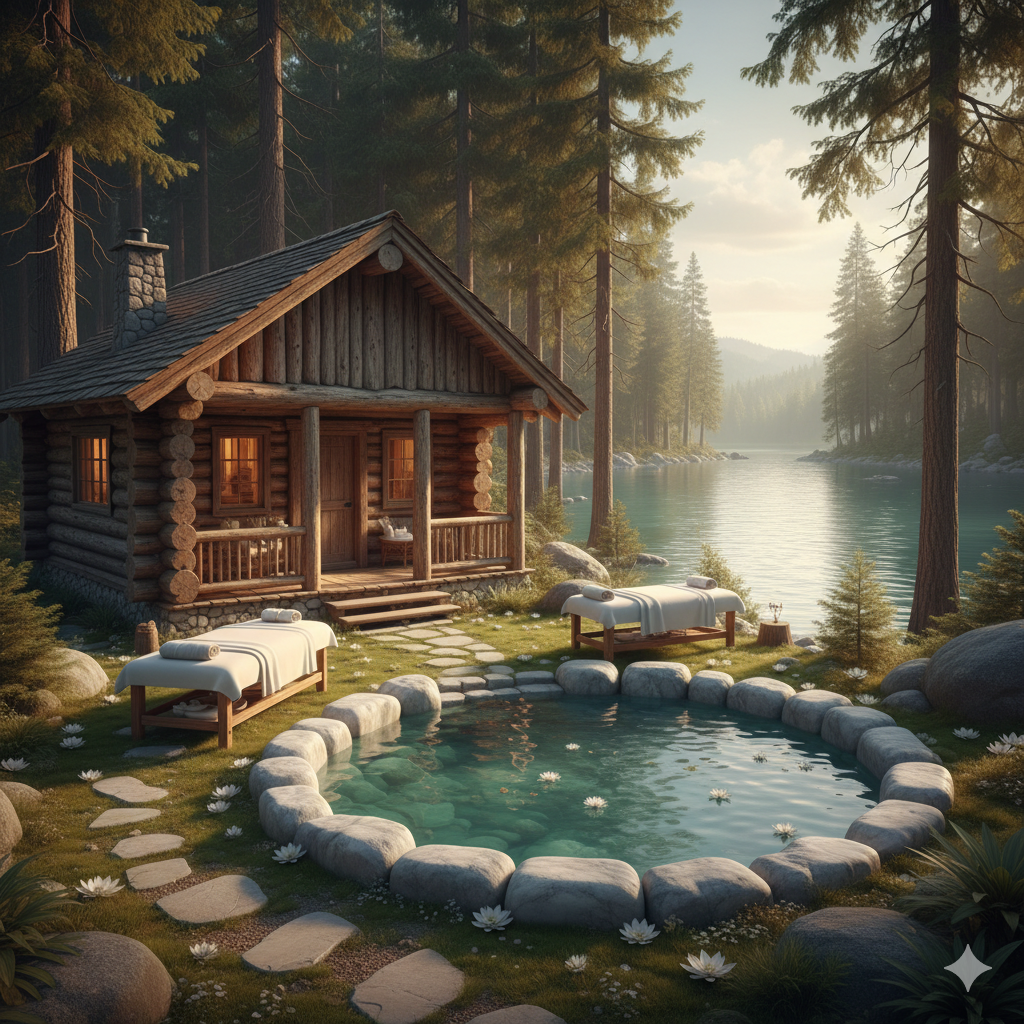
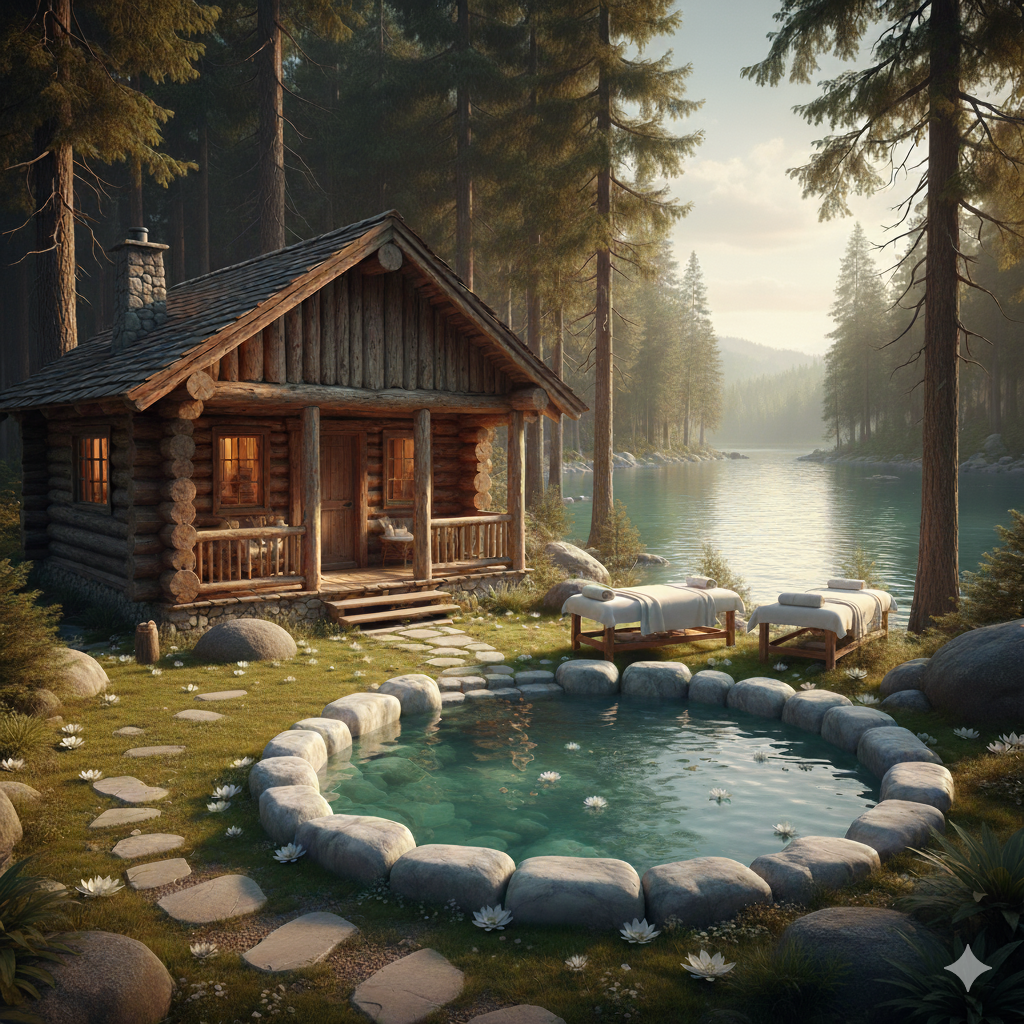
asd

diff --git a/data_of_protagonists.html b/data_of_protagonists.html
@@ -132,7 +132,7 @@
         三位主角現居於一棟坐落在深山中的木屋，遠離教會與人類社會的眼線。木屋四周環繞森林與湖畔，空氣清新，遠離塵囂。屋外建有一座由白色大理石雕琢而成的露天水療池，岸上則有兩張按摩床，是兩位女主沐浴、分享心事、享受按摩的秘密天地。
     </p>
     <p>
-        木屋內部佈置簡潔卻不失溫馨，由賽勒斯負責日常整理與打掃。他雖是高貴的吸血鬼，卻因救命之恩與生活安排，自願擔任「全能管家」。除了料理與打掃，他還負責替米莉亞與伊蓮娜洗衣服——儘管這讓他常常面紅耳赤，卻從未怨言。
+        木屋內部佈置簡潔卻不失溫馨，由賽勒斯負責日常整理與打掃。他雖是高貴的吸血鬼，卻因救命之恩與生活安排，自願擔任「全能管家」。除了料理與打掃，他還負責替米莉亞與伊蓮娜洗衣服，以及幫泡完澡後的她們按摩——儘管這讓他常常面紅耳赤，卻從未怨言。
     </p>
     <p>
         自從古堡被毀後，這座木屋成了他真正的避風港，也逐漸成為三人之間情感與命運交織的核心地點。
@@ -151,7 +151,7 @@
 <section class="character" id="hotspring-scene">
     <h2>支線事件：月下浴池</h2>
     <p>
-        某個月圓的夜晚，米莉亞與伊蓮娜如往常一樣前往屋外的露天大理石浴池洗澡。森林中微霧瀰漫，星光與月色映照在水面上，讓整個場景如夢似幻。兩位女主浸泡在溫熱的池水中，放鬆地聊天，但話題卻不知不覺轉向了——賽勒斯。
+        某個月圓的夜晚，米莉亞與伊蓮娜如往常一樣前往屋外的露天水療池洗澡。森林中微霧瀰漫，星光與月色映照在水面上，讓整個場景如夢似幻。兩位女主浸泡在溫熱的池水中，放鬆地聊天，但話題卻不知不覺轉向了——賽勒斯。
     </p>
     <p>
         「他今天洗我衣服的時候，又不小心把我的內衣拿反了……」伊蓮娜輕笑著說，水珠順著肩膀滑落，閃著銀白色的光。
@@ -159,7 +159,7 @@
         「他每次看到我們剛洗完澡，都不敢正眼看，像個小男孩。」米莉亞邊說邊將紅髮撥到耳後，眼神狡黠。
     </p>
     <p>
-        正當她們笑得開心時，木屋方向傳來細碎腳步聲——是賽勒斯。他手裡拿著剛洗好的浴巾，正準備默默地掛在浴池邊。沒想到他一抬頭，就剛好和她們四目相對。
+        正當她們笑得開心時，木屋方向傳來細碎腳步聲——是賽勒斯。他手裡拿著剛洗好的浴巾，正準備默默地放在水療池旁的按摩床上。沒想到他一抬頭，就剛好和她們四目相對。
     </p>
     <p>
         「呃……我、我放這裡了……」賽勒斯臉紅到脖子，轉身跑得比他平常追敵還快。
